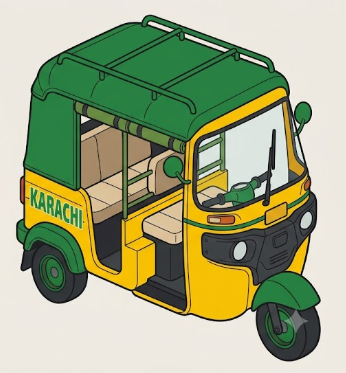
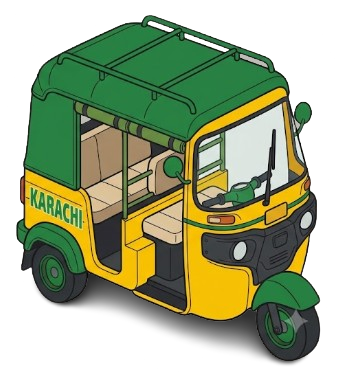
fixed iamges

diff --git a/frontend/src/components/VehiclePanel.jsx b/frontend/src/components/VehiclePanel.jsx
@@ -12,7 +12,7 @@ const VehiclePanel = ({ panelStates }) => {
       <div className=" overflow-auto py-1 my-4">
 
         <div className="flex my-2 items-center border-2 rounded-md border-gray-300 px-2 py-4   ">
-          <img src={'src/assets/images/bike.png'}
+          <img src={'/src/assets/images/bike.png'}
             alt="Bike"
             className="w-[30%] object-contain pr-2  "
           />
